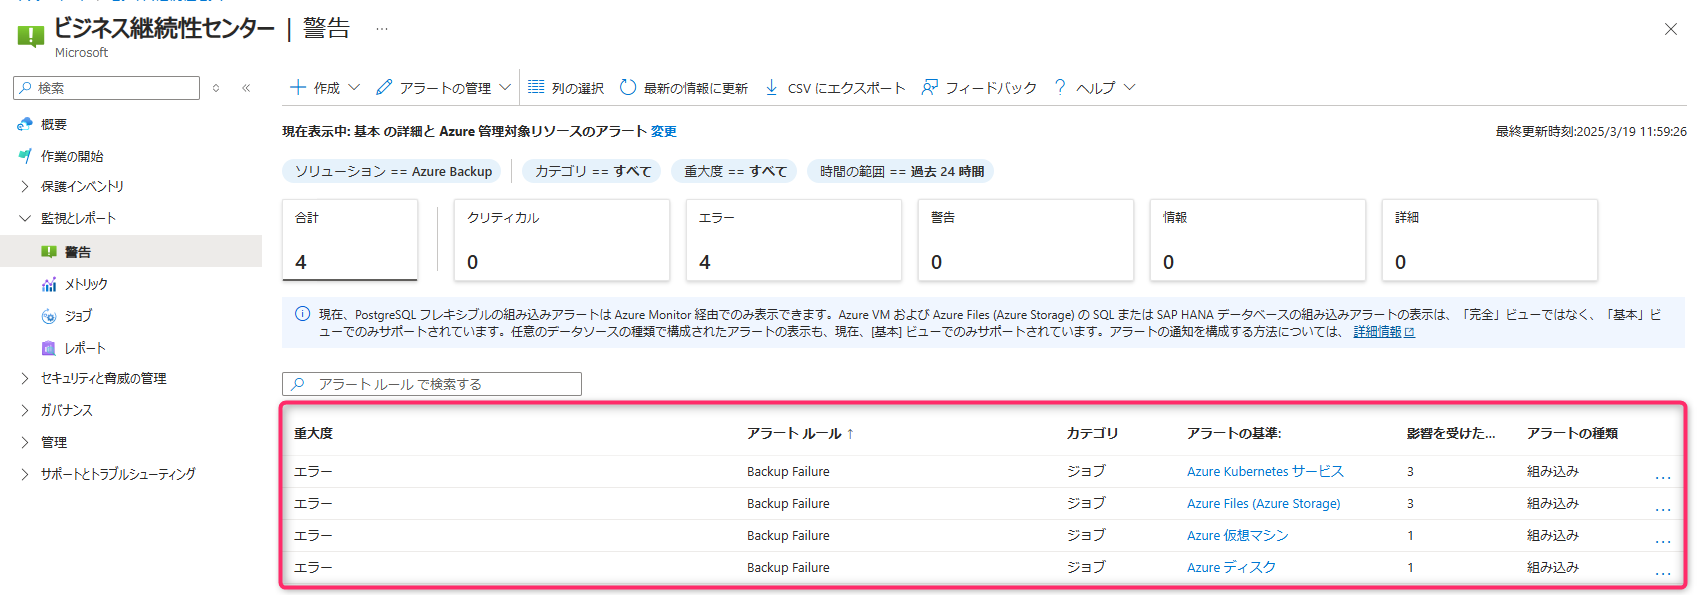
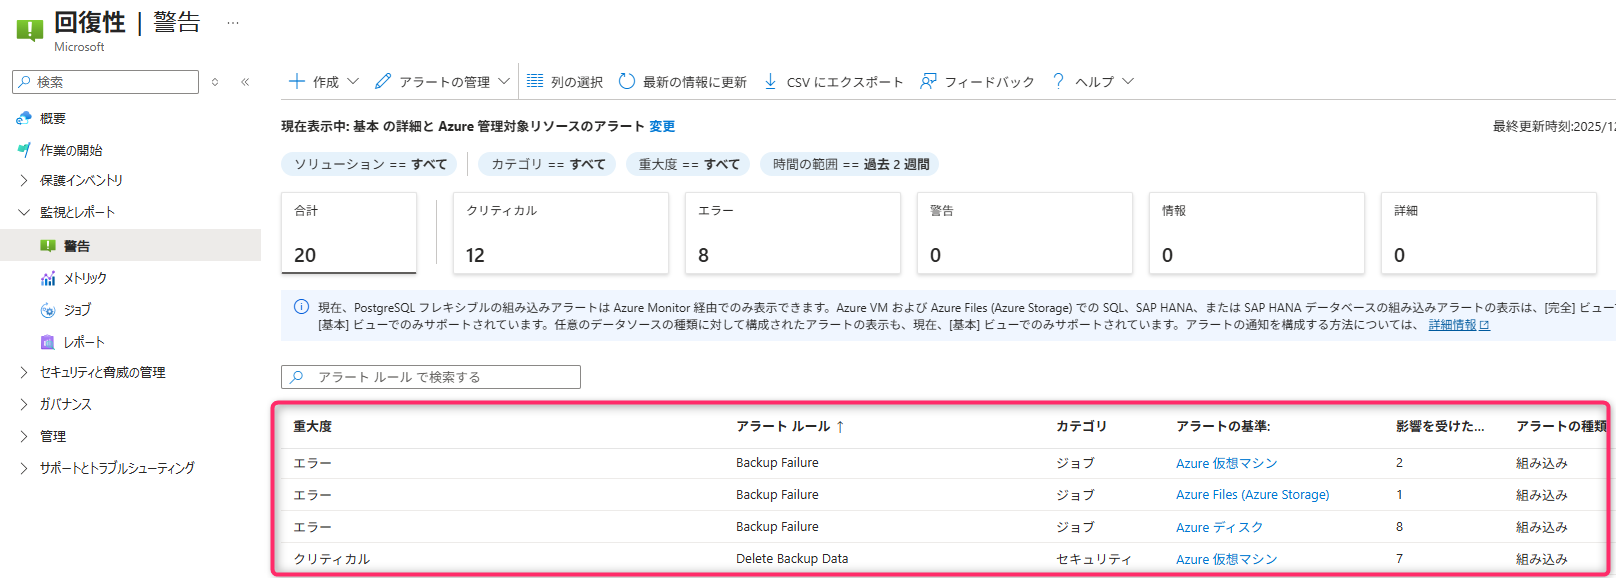
[fix] How_to_set_Backup_Alert.md の修正

diff --git a/articles/AzureBackupGeneral/How_to_set_Backup_Alert.md b/articles/AzureBackupGeneral/How_to_set_Backup_Alert.md
@@ -42,8 +42,8 @@ Azure Backup にて、バックアップ ジョブが失敗した際にアラー
 
 ・ 1. ジョブ失敗のシナリオに対して Azure Monitor のアラートを有効にする / Azure Backup 用に Azure Monitor ベースのアラートを管理する - Azure Backup | Microsoft Learn
 　 https://learn.microsoft.com/ja-jp/azure/backup/backup-azure-monitoring-alerts?tabs=recovery-services-vaults#turn-on-azure-monitor-alerts-for-job-failure-scenarios
-・ 2. 通知を構成する / チュートリアル - Azure ビジネス継続性センターの警告とメトリックスを監視する | Microsoft Learn
-　 https://learn.microsoft.com/ja-jp/azure/business-continuity-center/tutorial-monitor-alerts-metrics#configure-notifications
+・ 2. 通知を構成する / チュートリアル - 回復性でアラートとメトリックを監視する | Microsoft Learn
+　 https://learn.microsoft.com/ja-jp/azure/resiliency/tutorial-monitor-alerts-metrics#configure-notifications
 
 ### <a id="2-1"></a>2-1. Azure Monitor を使用した組み込みのアラート構成　作業例
 
@@ -54,16 +54,16 @@ Azure Backup にて、バックアップ ジョブが失敗した際にアラー
        ![](./How_to_set_Backup_Alert/How_to_set_Backup_Alert_01.png)  
 
      「Backup のジョブ エラーに関する組み込みの Azure Monitor アラート」設定を有効化することで、バックアップ ジョブが失敗した場合などに、アラートが生成されます。  
-     ・ 監視アラート / チュートリアル - Azure ビジネス継続性センターの警告とメトリックスを監視する | Microsoft Learn  
-     　 https://learn.microsoft.com/ja-jp/azure/business-continuity-center/tutorial-monitor-alerts-metrics#monitor-alerts  
+     ・ 監視アラート / チュートリアル - 回復性でアラートとメトリックを監視する | Microsoft Learn
+     　 https://learn.microsoft.com/ja-jp/azure/resiliency/tutorial-monitor-alerts-metrics#monitor-alerts
      例)  
         ![](./How_to_set_Backup_Alert/How_to_set_Backup_Alert_03.png)  
 
-- 2. ビジネス継続センターの [監視とレポート] > [警告] > [アラートの管理] > [アラート処理ルールの管理] にて、新しいアラート処理ルールを作成します  
+- 2. 回復性 (Resiliency) の [監視とレポート] > [警告] > [アラートの管理] > [アラート処理ルールの管理] にて、新しいアラート処理ルールを作成します  
      ![](./How_to_set_Backup_Alert/How_to_set_Backup_Alert_04.png)  
      ![](./How_to_set_Backup_Alert/How_to_set_Backup_Alert_05.png)  
-     ・ 通知を構成する / チュートリアル - Azure ビジネス継続性センターの警告とメトリックスを監視する | Microsoft Learn  
-     　 https://learn.microsoft.com/ja-jp/azure/business-continuity-center/tutorial-monitor-alerts-metrics#configure-notifications  
+     ・ 通知の構成 / チュートリアル - 回復性でアラートとメトリックを監視する | Microsoft Learn
+     　 https://learn.microsoft.com/ja-jp/azure/resiliency/tutorial-monitor-alerts-metrics#configure-notifications
 
 - 3. アラート処理ルールの設定を行います  
      - 今回は、Recovery Services コンテナー「rsv-01」およびバックアップ コンテナー「bpv-01」にてバックアップ構成しているため、スコープを「Recovery Services コンテナー : rsv-01」と「バックアップ コンテナー : bpv-01」とします  
